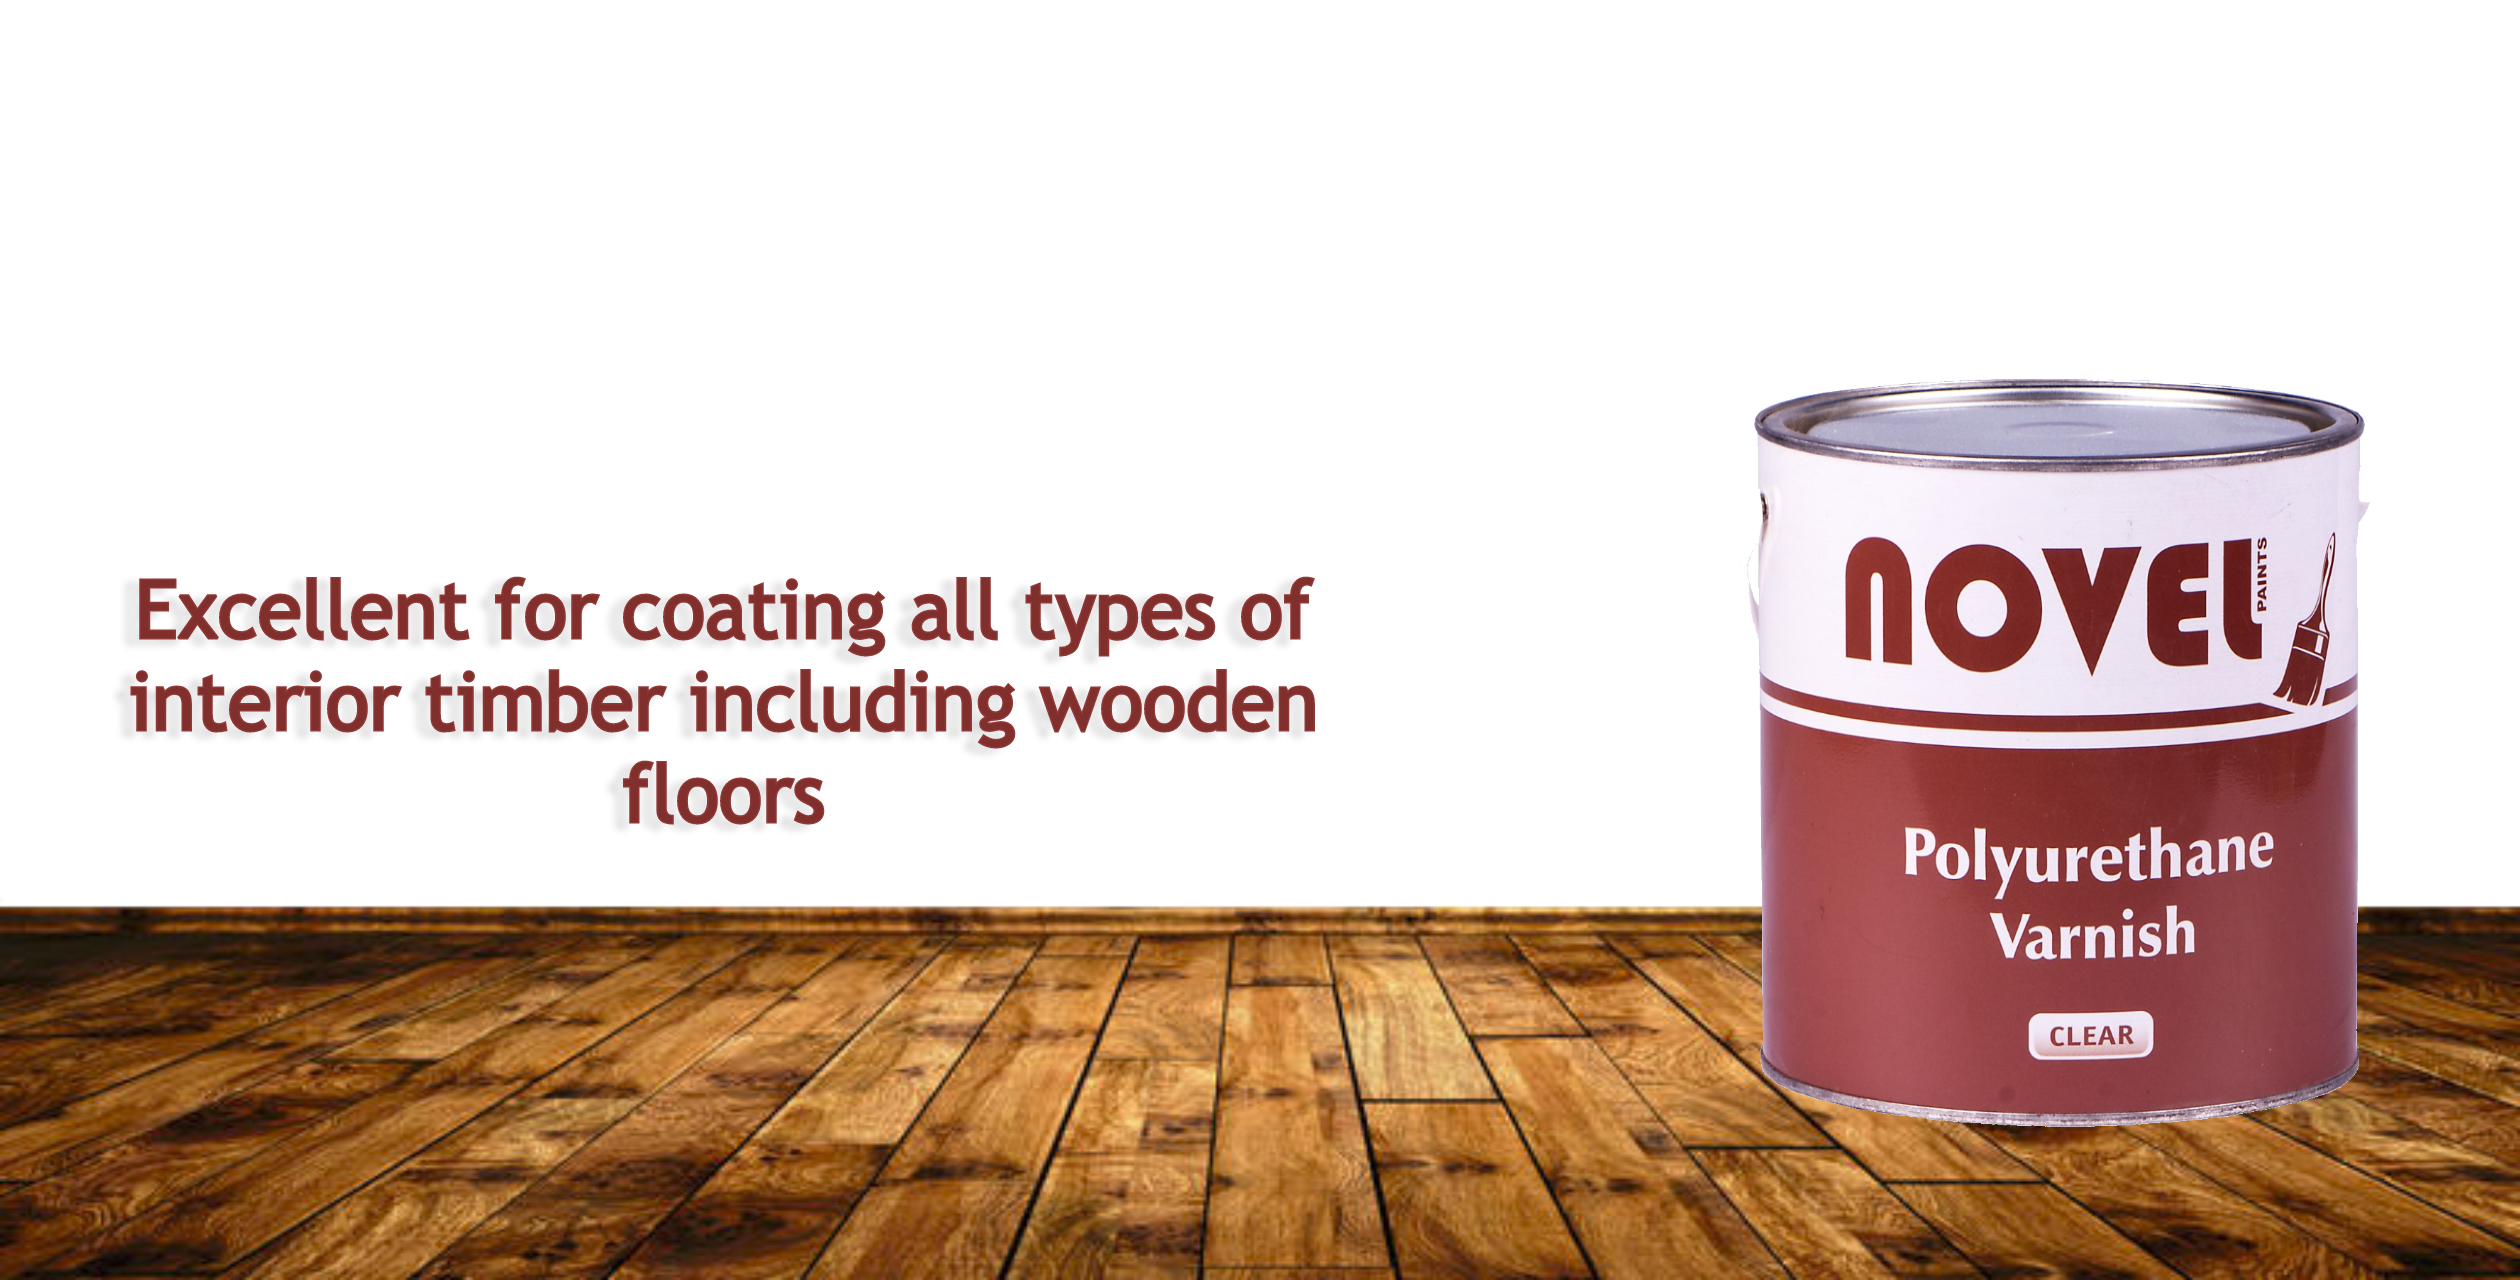
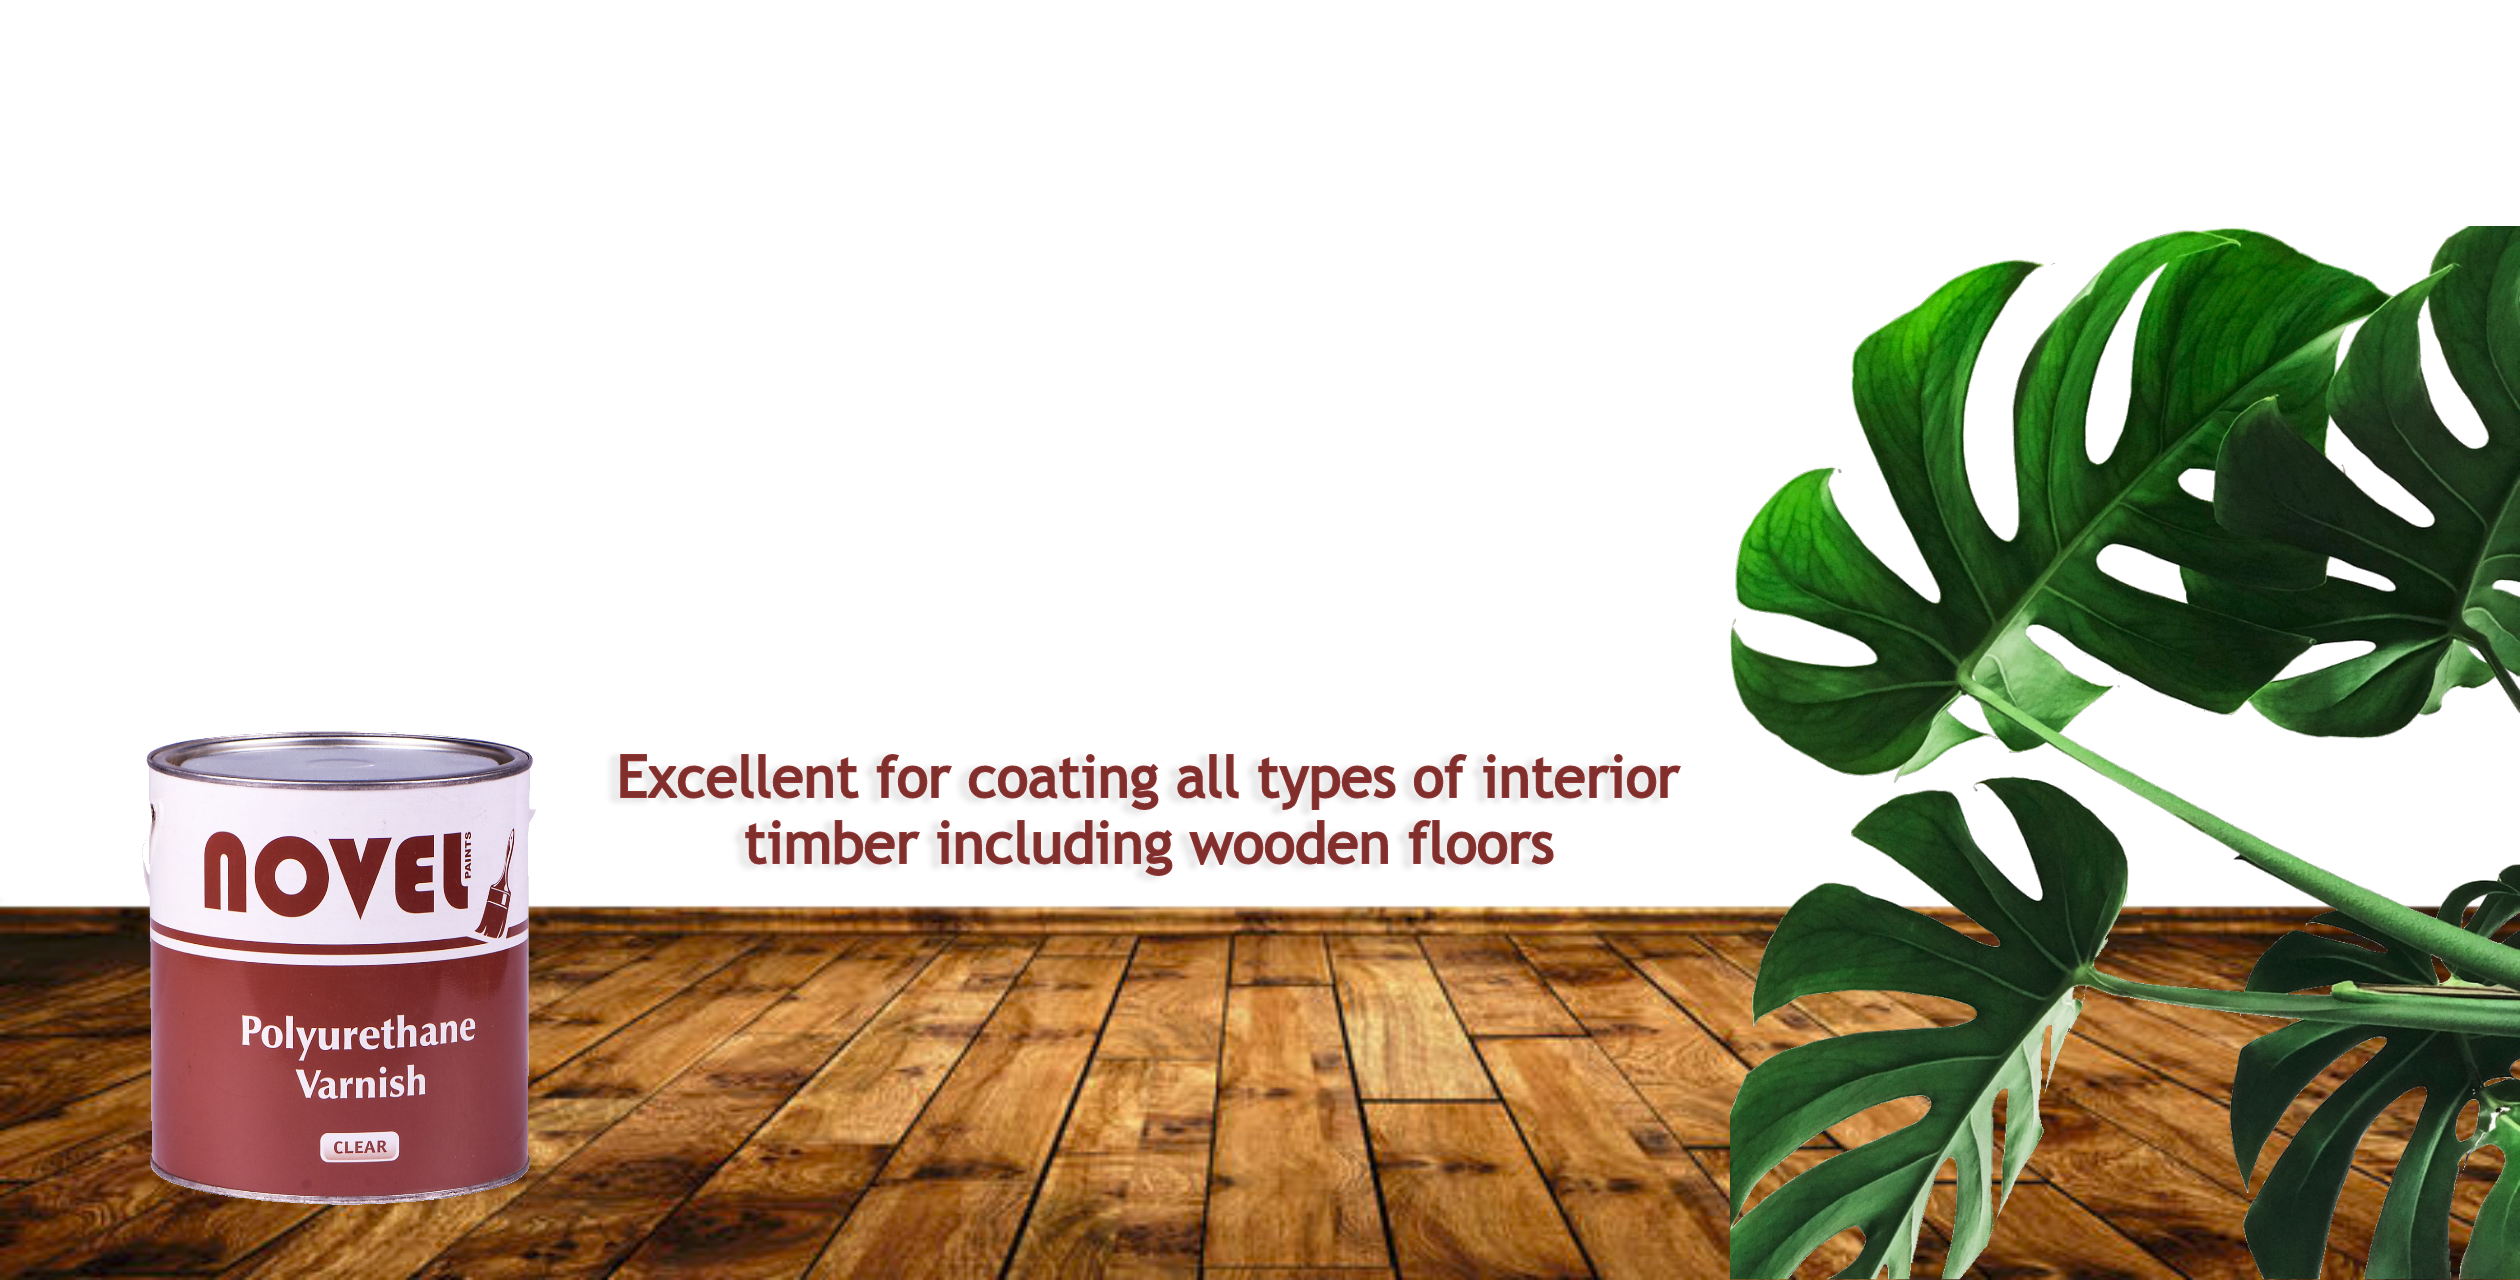
tweaked slider mobile responsiveness

Changed region(s): [[0.031, 0.1562, 1.0, 1.0]]

diff --git a/css/style.css b/css/style.css
@@ -310,7 +310,7 @@ img {
 
 /*   New preloader*/
 
-#aa-preloader-area {
+#aa-preloader-area-2 {
   background-color: #F8F8F8;
   position: fixed;
   margin: auto;
@@ -390,7 +390,7 @@ img {
 /*   New preloader*/
 
 /*Preloader*/
-#aa-preloader-area-2 {
+#aa-preloader-area {
   background-color: #F8F8F8;
   position: fixed; 
   left: 0;
@@ -2970,7 +2970,7 @@ img {
   }
 
   #aa-slider .aa-slider-area .aa-top-slider .aa-top-slider-single img {
-    height: 600px;
+    height: 350px;
   }
 
   #aa-property-header {
